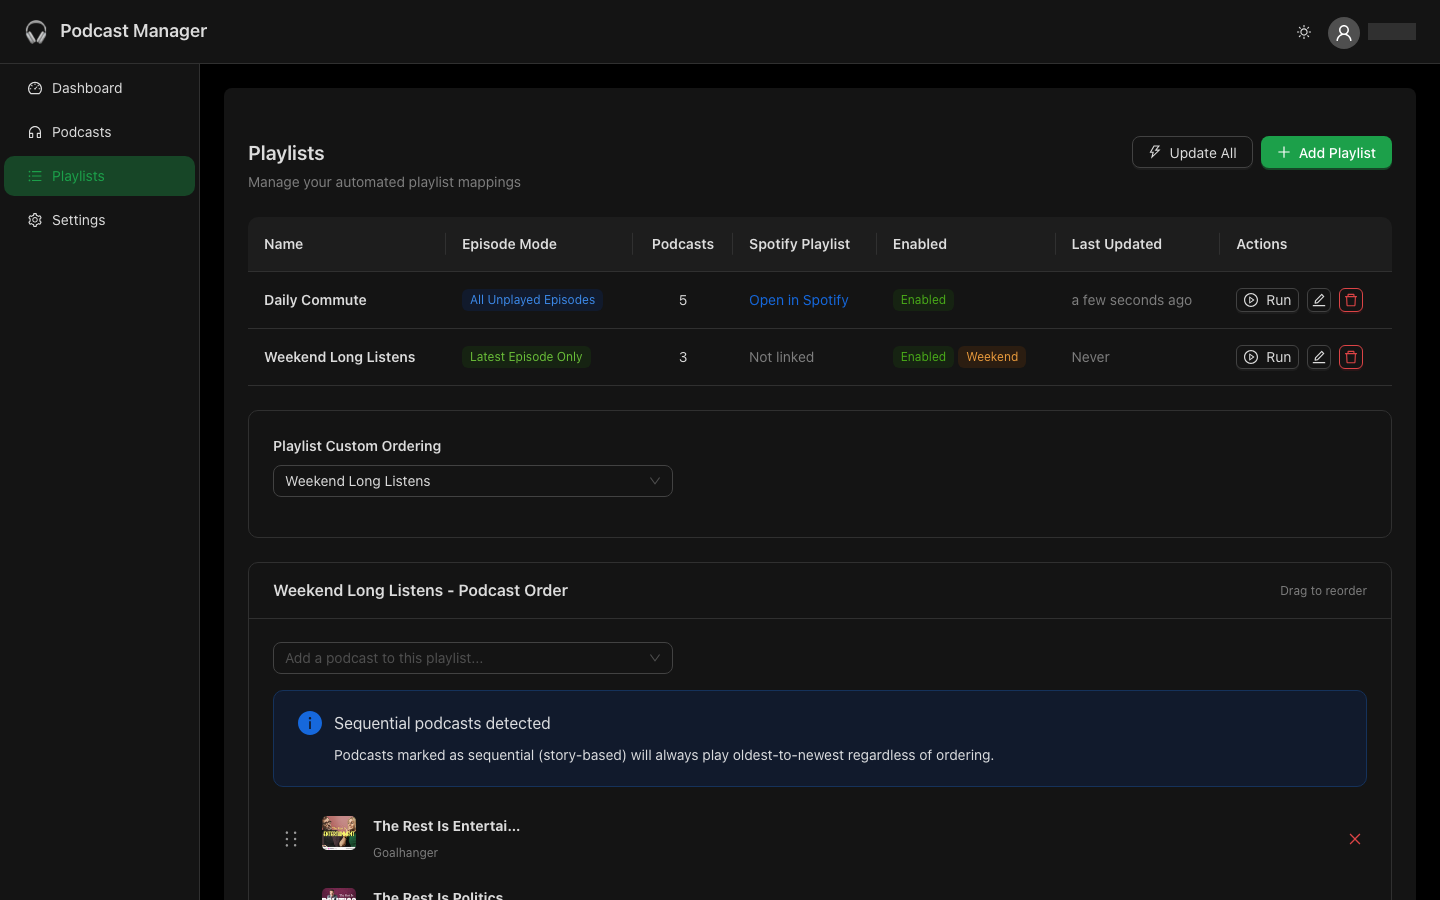
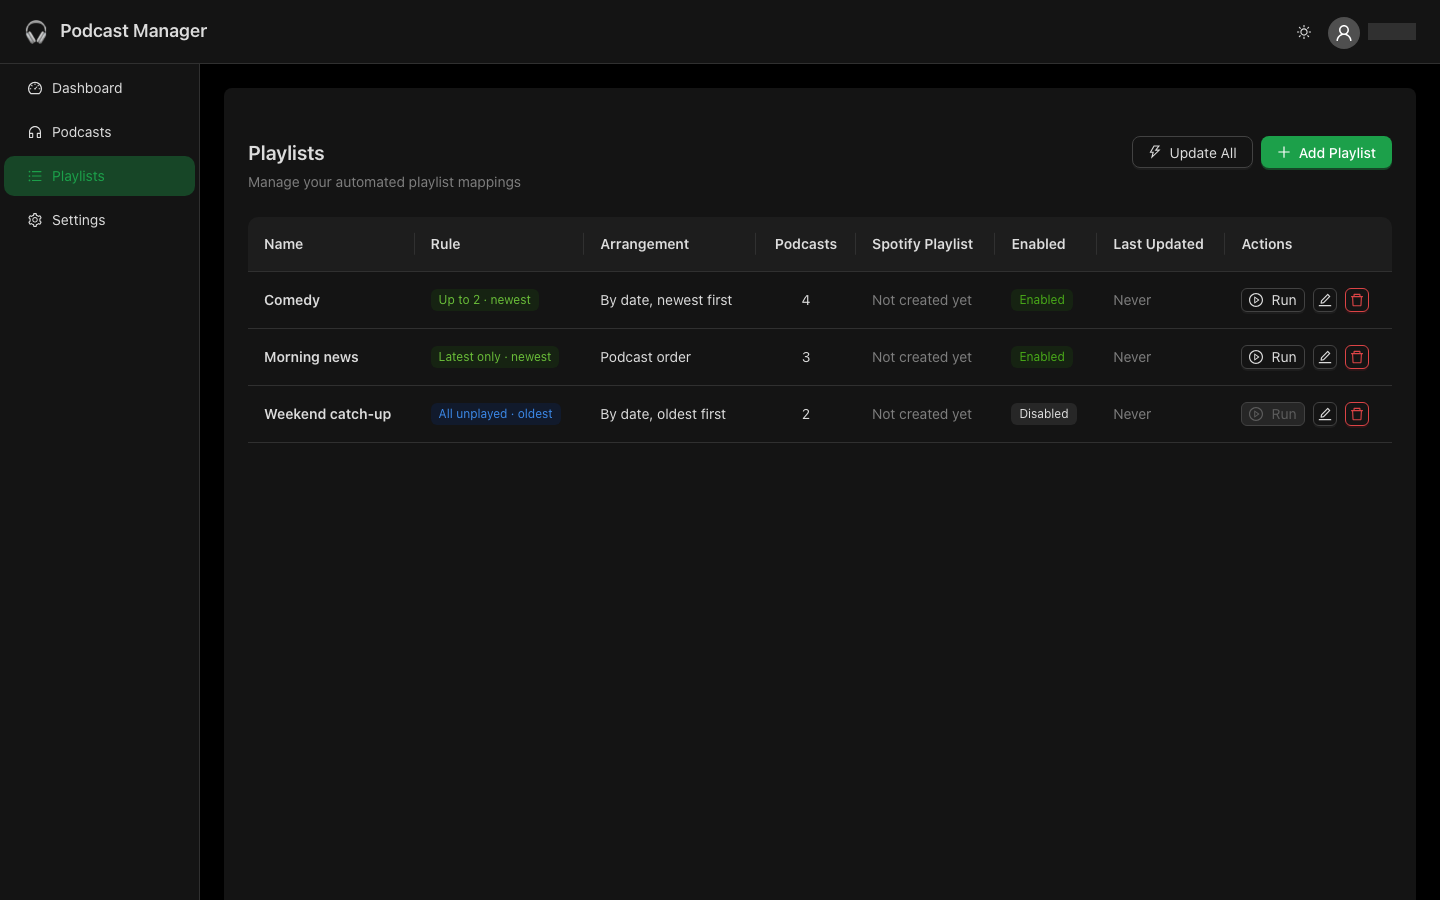
docs: regenerate screenshots, add the playlist detail page, note Premium
- Recapture all README screenshots from a fresh local database; the old set
  predated #238–#258 and still showed the Weekend tag.
- capture-screenshots.mjs also captures a playlist's detail page (the one
  with the most podcasts), since per-show rules are edited there now.
- README and project page: Spotify Dev Mode needs Premium on the developer
  app's account since March 2026, and one Dev Mode app per developer.

diff --git a/site/index.html b/site/index.html
@@ -439,7 +439,7 @@ footer p { margin: 0 0 8px; max-width: 60em; }
           <h2 class="section-title" id="setup-title">What you need</h2>
           <p class="section-intro">Podcast Manager isn’t an app you download from a store. You run your own copy, and it looks after one Spotify account. Here’s what that involves.</p>
           <ul class="checklist">
-            <li><strong>A Spotify account</strong><span>Free or Premium, the one you already listen with.</span></li>
+            <li><strong>Spotify Premium</strong><span>Spotify only lets personal projects like this connect to Premium accounts. Use the one you already listen with.</span></li>
             <li><strong>A computer that stays on</strong><span>A home server, a NAS, a Raspberry Pi-class machine or a small cloud server that can run Docker.</span></li>
             <li><strong>Your own Spotify developer app</strong><span>It’s free and takes a few minutes on Spotify’s developer site. It’s how the app gets permission to manage your playlists.</span></li>
             <li><strong>A web address with HTTPS</strong><span>Spotify only lets you sign in through a secure address, so the app needs one.</span></li>

diff --git a/README.md b/README.md
@@ -72,9 +72,13 @@ Each installation serves one Spotify account: registration closes once the first
 
 ![Podcasts](docs/screenshots/podcasts-light.png)
 
-**Playlists.** Create playlists and set their defaults and arrangement. Each playlist's detail page handles ordering, rule overrides and adding or removing shows.
+**Playlists.** Every playlist with its default rule, arrangement, Spotify link and status, and one-click runs.
 
 ![Playlists](docs/screenshots/playlists-light.png)
+
+**Playlist detail.** A playlist's settings and the rule each show will follow on the next rebuild: the playlist default, the sequential hint, or a custom override. Editing podcasts, order and overrides starts here.
+
+![Playlist detail](docs/screenshots/playlist-detail-light.png)
 
 **Settings.** Spotify account, theme, and the scheduled jobs with their last-run status.
 
@@ -86,6 +90,7 @@ Each installation serves one Spotify account: registration closes once the first
 ![Dashboard, dark](docs/screenshots/dashboard-dark.png)
 ![Podcasts, dark](docs/screenshots/podcasts-dark.png)
 ![Playlists, dark](docs/screenshots/playlists-dark.png)
+![Playlist detail, dark](docs/screenshots/playlist-detail-dark.png)
 ![Settings, dark](docs/screenshots/settings-dark.png)
 
 </details>
@@ -105,7 +110,7 @@ The saved session lives in the gitignored `frontend/.screenshots-auth.json`. Acc
 
 ### What you need
 
-- A Spotify account and your own Spotify Developer application (see below)
+- A Spotify **Premium** account and your own Spotify Developer application (see below)
 - For deployment: a machine that runs Docker, and a public HTTPS URL for it
 - For local development: Python 3.11+ (CI tests 3.11 and 3.14; the Docker image runs 3.14), Node.js, and [mkcert](https://github.com/FiloSottile/mkcert)
 
@@ -120,6 +125,7 @@ Every installation needs its **own** Spotify Developer application. There is no 
 
 #### Spotify Development Mode constraints
 
+- Since March 2026, Dev Mode needs **Spotify Premium** on the account that owns the developer app, and allows **one Dev Mode app per developer**. A lapsed Premium subscription or a second Dev Mode app can make Spotify refuse sign-in, sometimes with the unhelpful `temporarily_unavailable` error.
 - Dev Mode apps are capped at **5 allowlisted users**, and extended quota is effectively unavailable to hobby projects. Podcast Manager is personal software, not something to open to the public.
 - The app is built for Dev Mode's reduced API. Spotify removed the batch "Get Several X" endpoints for Dev Mode apps in early 2026, so the app uses single-item requests at low concurrency.
 - Spotify OAuth rejects plain-HTTP and `localhost` redirect URIs, hence the HTTPS and `127.0.0.1` requirements below.
